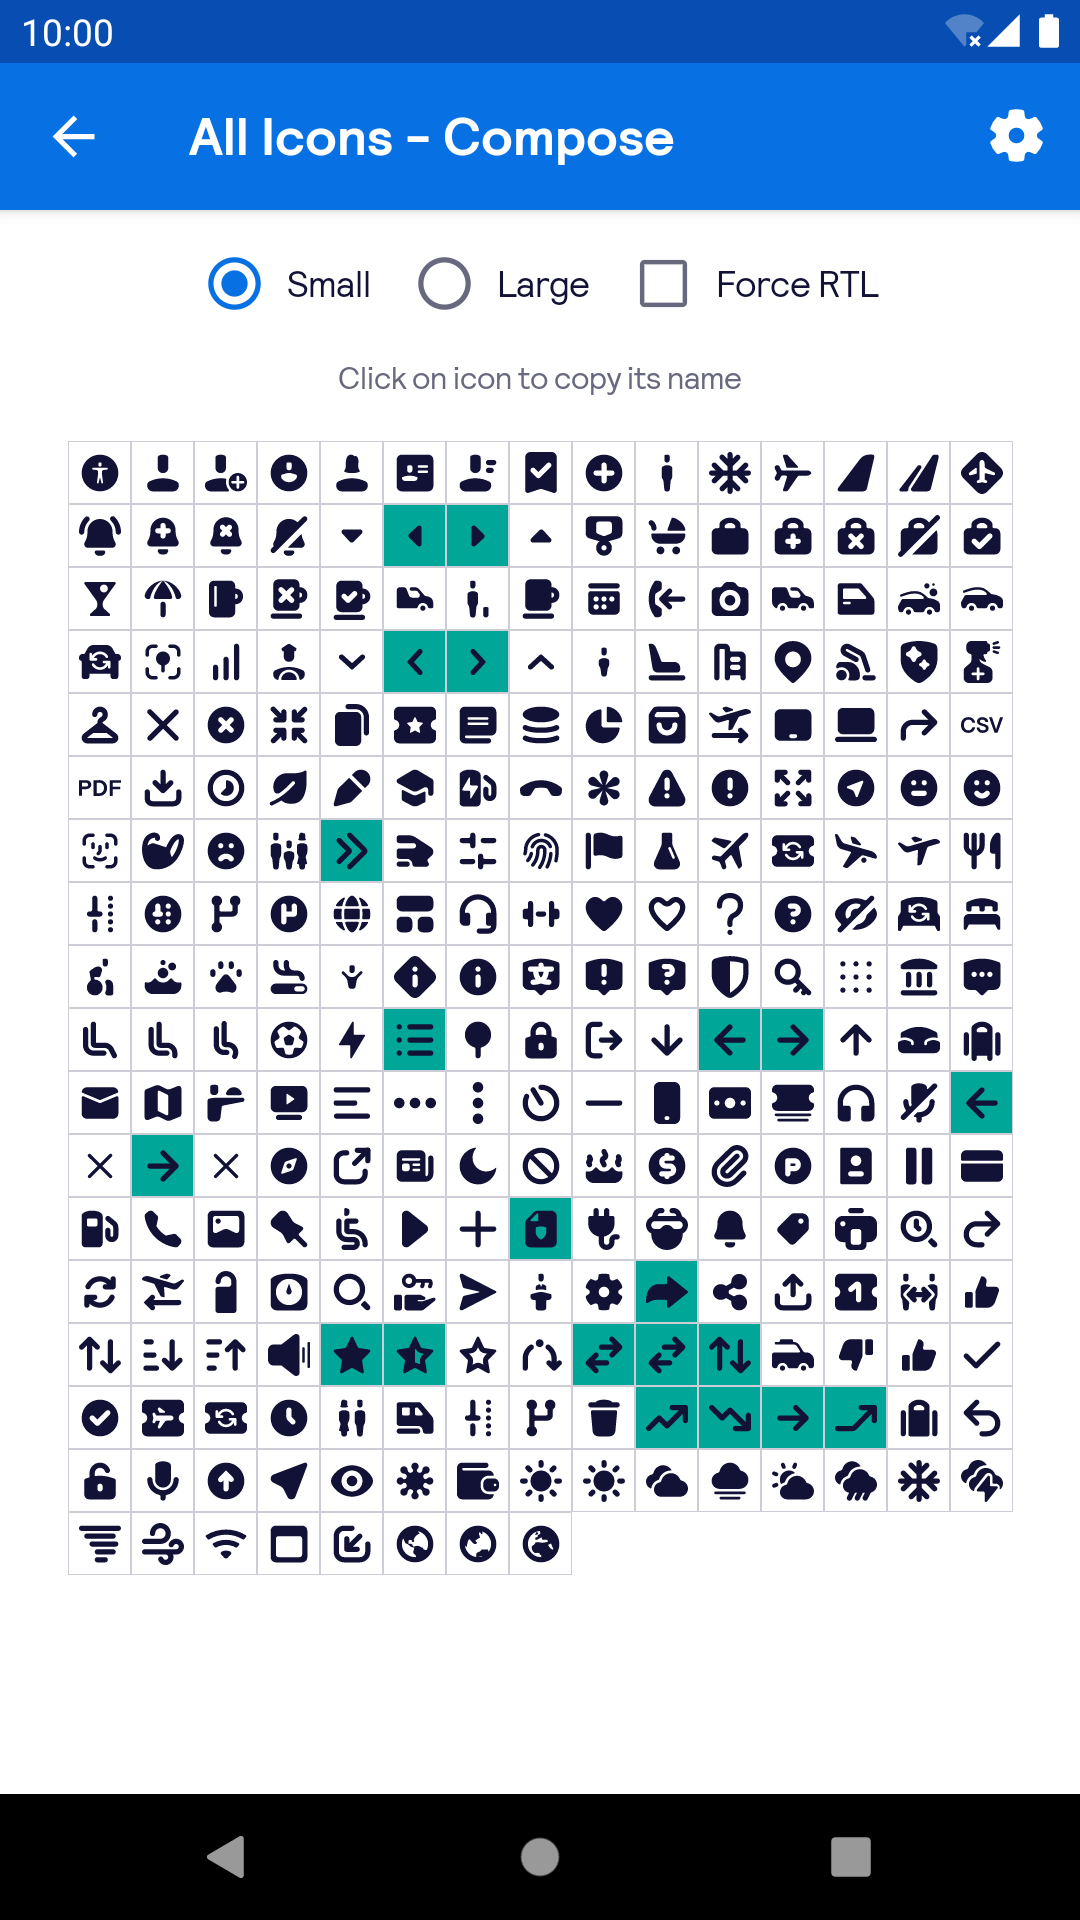
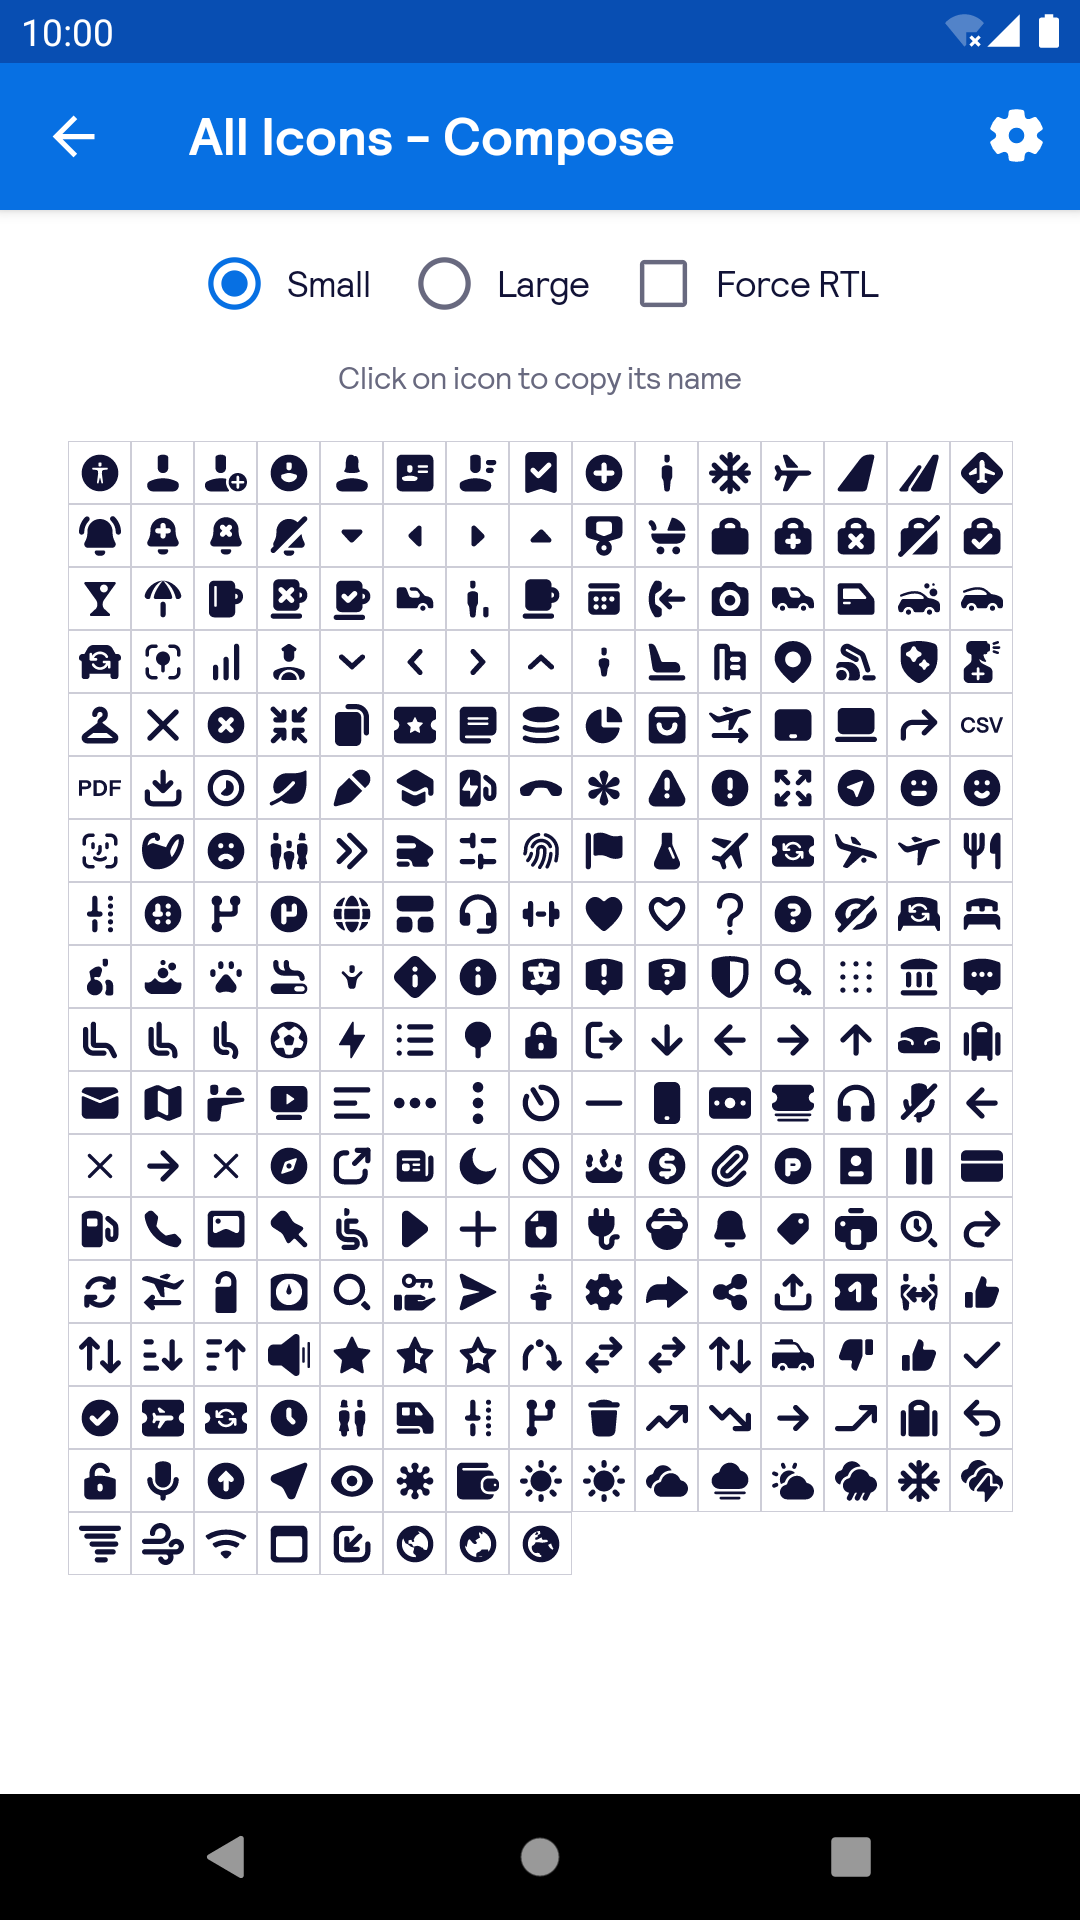
Review changes.

diff --git a/app/src/main/java/net/skyscanner/backpack/demo/compose/IconsStory.kt b/app/src/main/java/net/skyscanner/backpack/demo/compose/IconsStory.kt
@@ -18,7 +18,7 @@
 
 package net.skyscanner.backpack.demo.compose
 
-import androidx.compose.foundation.background
+import androidx.compose.animation.core.animateFloatAsState
 import androidx.compose.foundation.border
 import androidx.compose.foundation.clickable
 import androidx.compose.foundation.layout.Arrangement
@@ -37,7 +37,7 @@ import androidx.compose.runtime.remember
 import androidx.compose.runtime.setValue
 import androidx.compose.ui.Alignment
 import androidx.compose.ui.Modifier
-import androidx.compose.ui.graphics.Color
+import androidx.compose.ui.draw.drawBehind
 import androidx.compose.ui.platform.LocalClipboardManager
 import androidx.compose.ui.platform.LocalContext
 import androidx.compose.ui.platform.LocalLayoutDirection
@@ -102,6 +102,14 @@ fun IconsStoryCompose() {
     val context = LocalContext.current
     val clipboardManager = LocalClipboardManager.current
 
+    val autoMirrorBackground = BpkTheme.colors.systemGreen
+    val autoMirrorAlpha by animateFloatAsState(
+      targetValue = when (layoutDirection) {
+        LayoutDirection.Ltr -> 0f
+        LayoutDirection.Rtl -> 1f
+      },
+    )
+
     BpkText(
       text = stringResource(R.string.icons_story_guide),
       style = BpkTheme.typography.caption,
@@ -117,7 +125,9 @@ fun IconsStoryCompose() {
             contentAlignment = Alignment.Center,
             modifier = Modifier
               .border(Dp.Hairline, BpkTheme.colors.line)
-              .background(if (icon.autoMirror) BpkTheme.colors.systemGreen else Color.Transparent)
+              .drawBehind {
+                drawRect(color = autoMirrorBackground, alpha = if (icon.autoMirror) autoMirrorAlpha else 0f)
+              }
               .clickable {
                 clipboardManager.setText(AnnotatedString(icon.name))
                 BpkToast.makeText(
@@ -131,7 +141,7 @@ fun IconsStoryCompose() {
 
             BpkIcon(
               icon = icon,
-              contentDescription = null,
+              contentDescription = stringResource(R.string.icons_story_content_description, icon.name),
               size = size,
             )
           }
